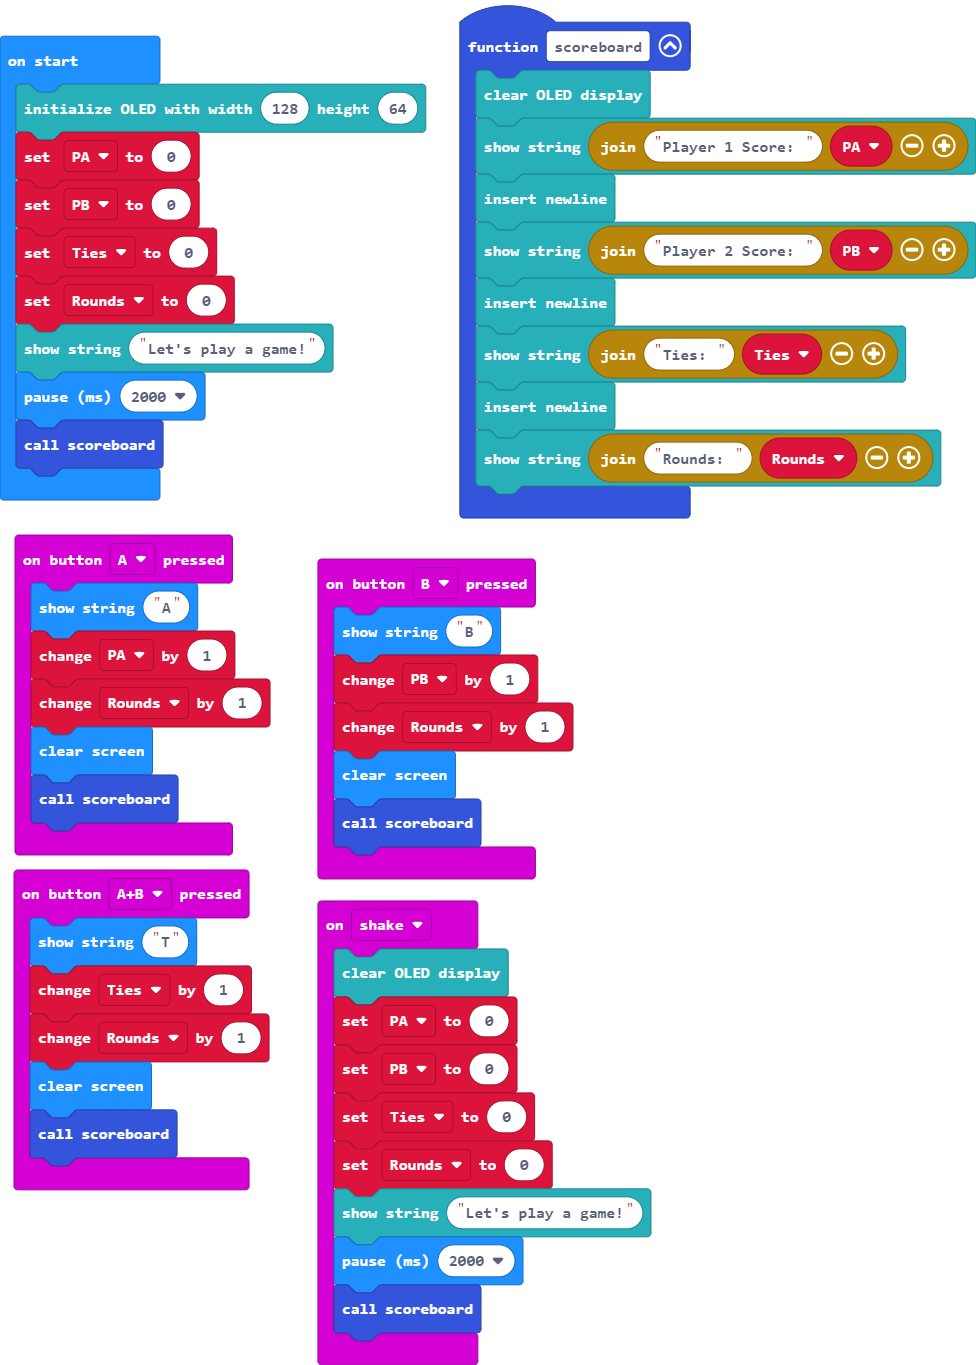
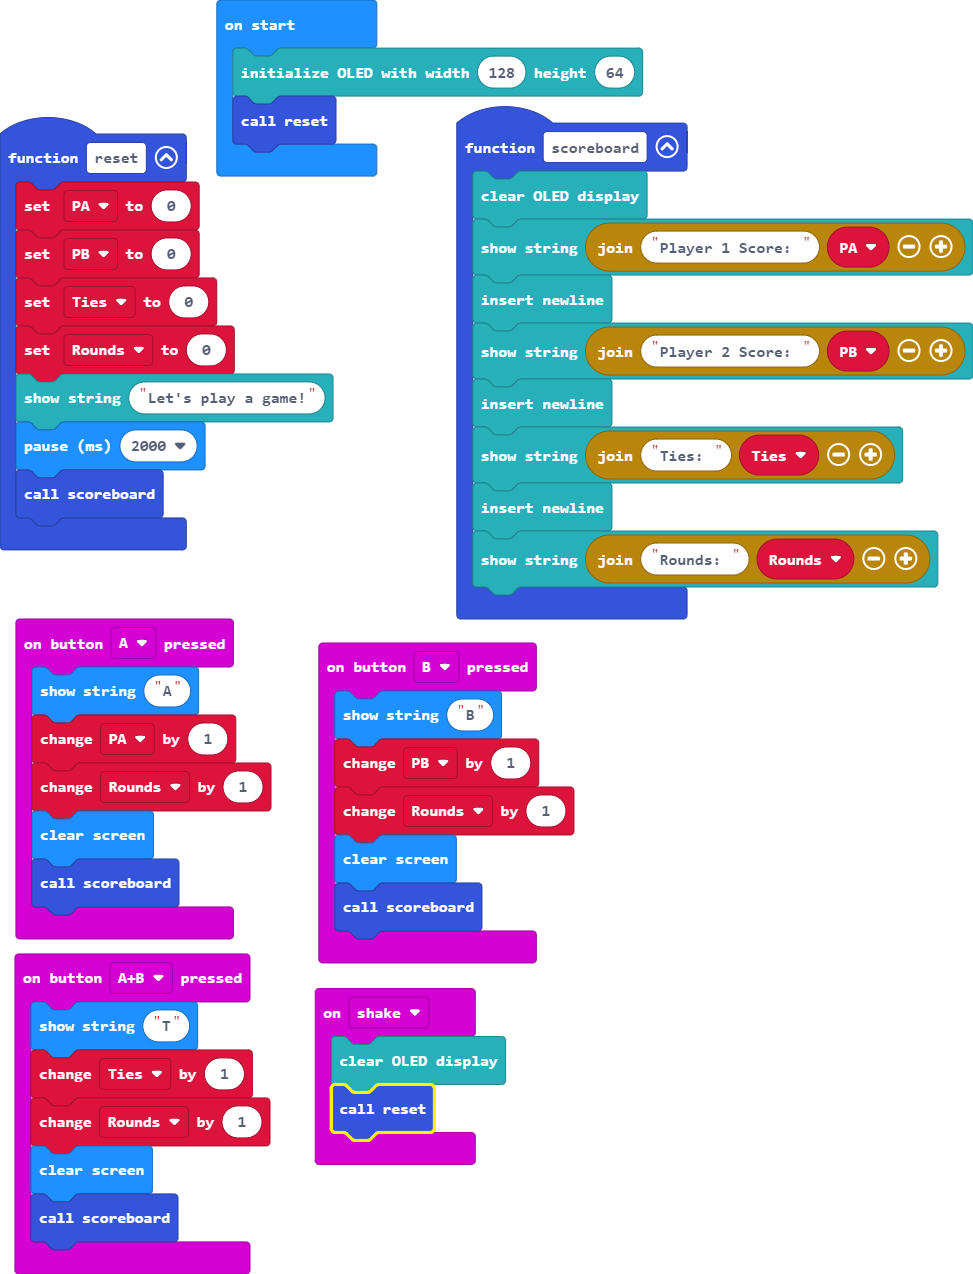
Update main.blocks, main.ts

diff --git a/main.ts b/main.ts
@@ -31,6 +31,9 @@ input.onButtonPressed(Button.B, function () {
 })
 input.onGesture(Gesture.Shake, function () {
     OLED.clear()
+    reset()
+})
+function reset () {
     PA = 0
     PB = 0
     Ties = 0
@@ -38,16 +41,10 @@ input.onGesture(Gesture.Shake, function () {
     OLED.writeStringNewLine("Let's play a game!")
     basic.pause(2000)
     scoreboard()
-})
+}
 let Rounds = 0
 let Ties = 0
 let PB = 0
 let PA = 0
 OLED.init(128, 64)
-PA = 0
-PB = 0
-Ties = 0
-Rounds = 0
-OLED.writeStringNewLine("Let's play a game!")
-basic.pause(2000)
-scoreboard()
+reset()
